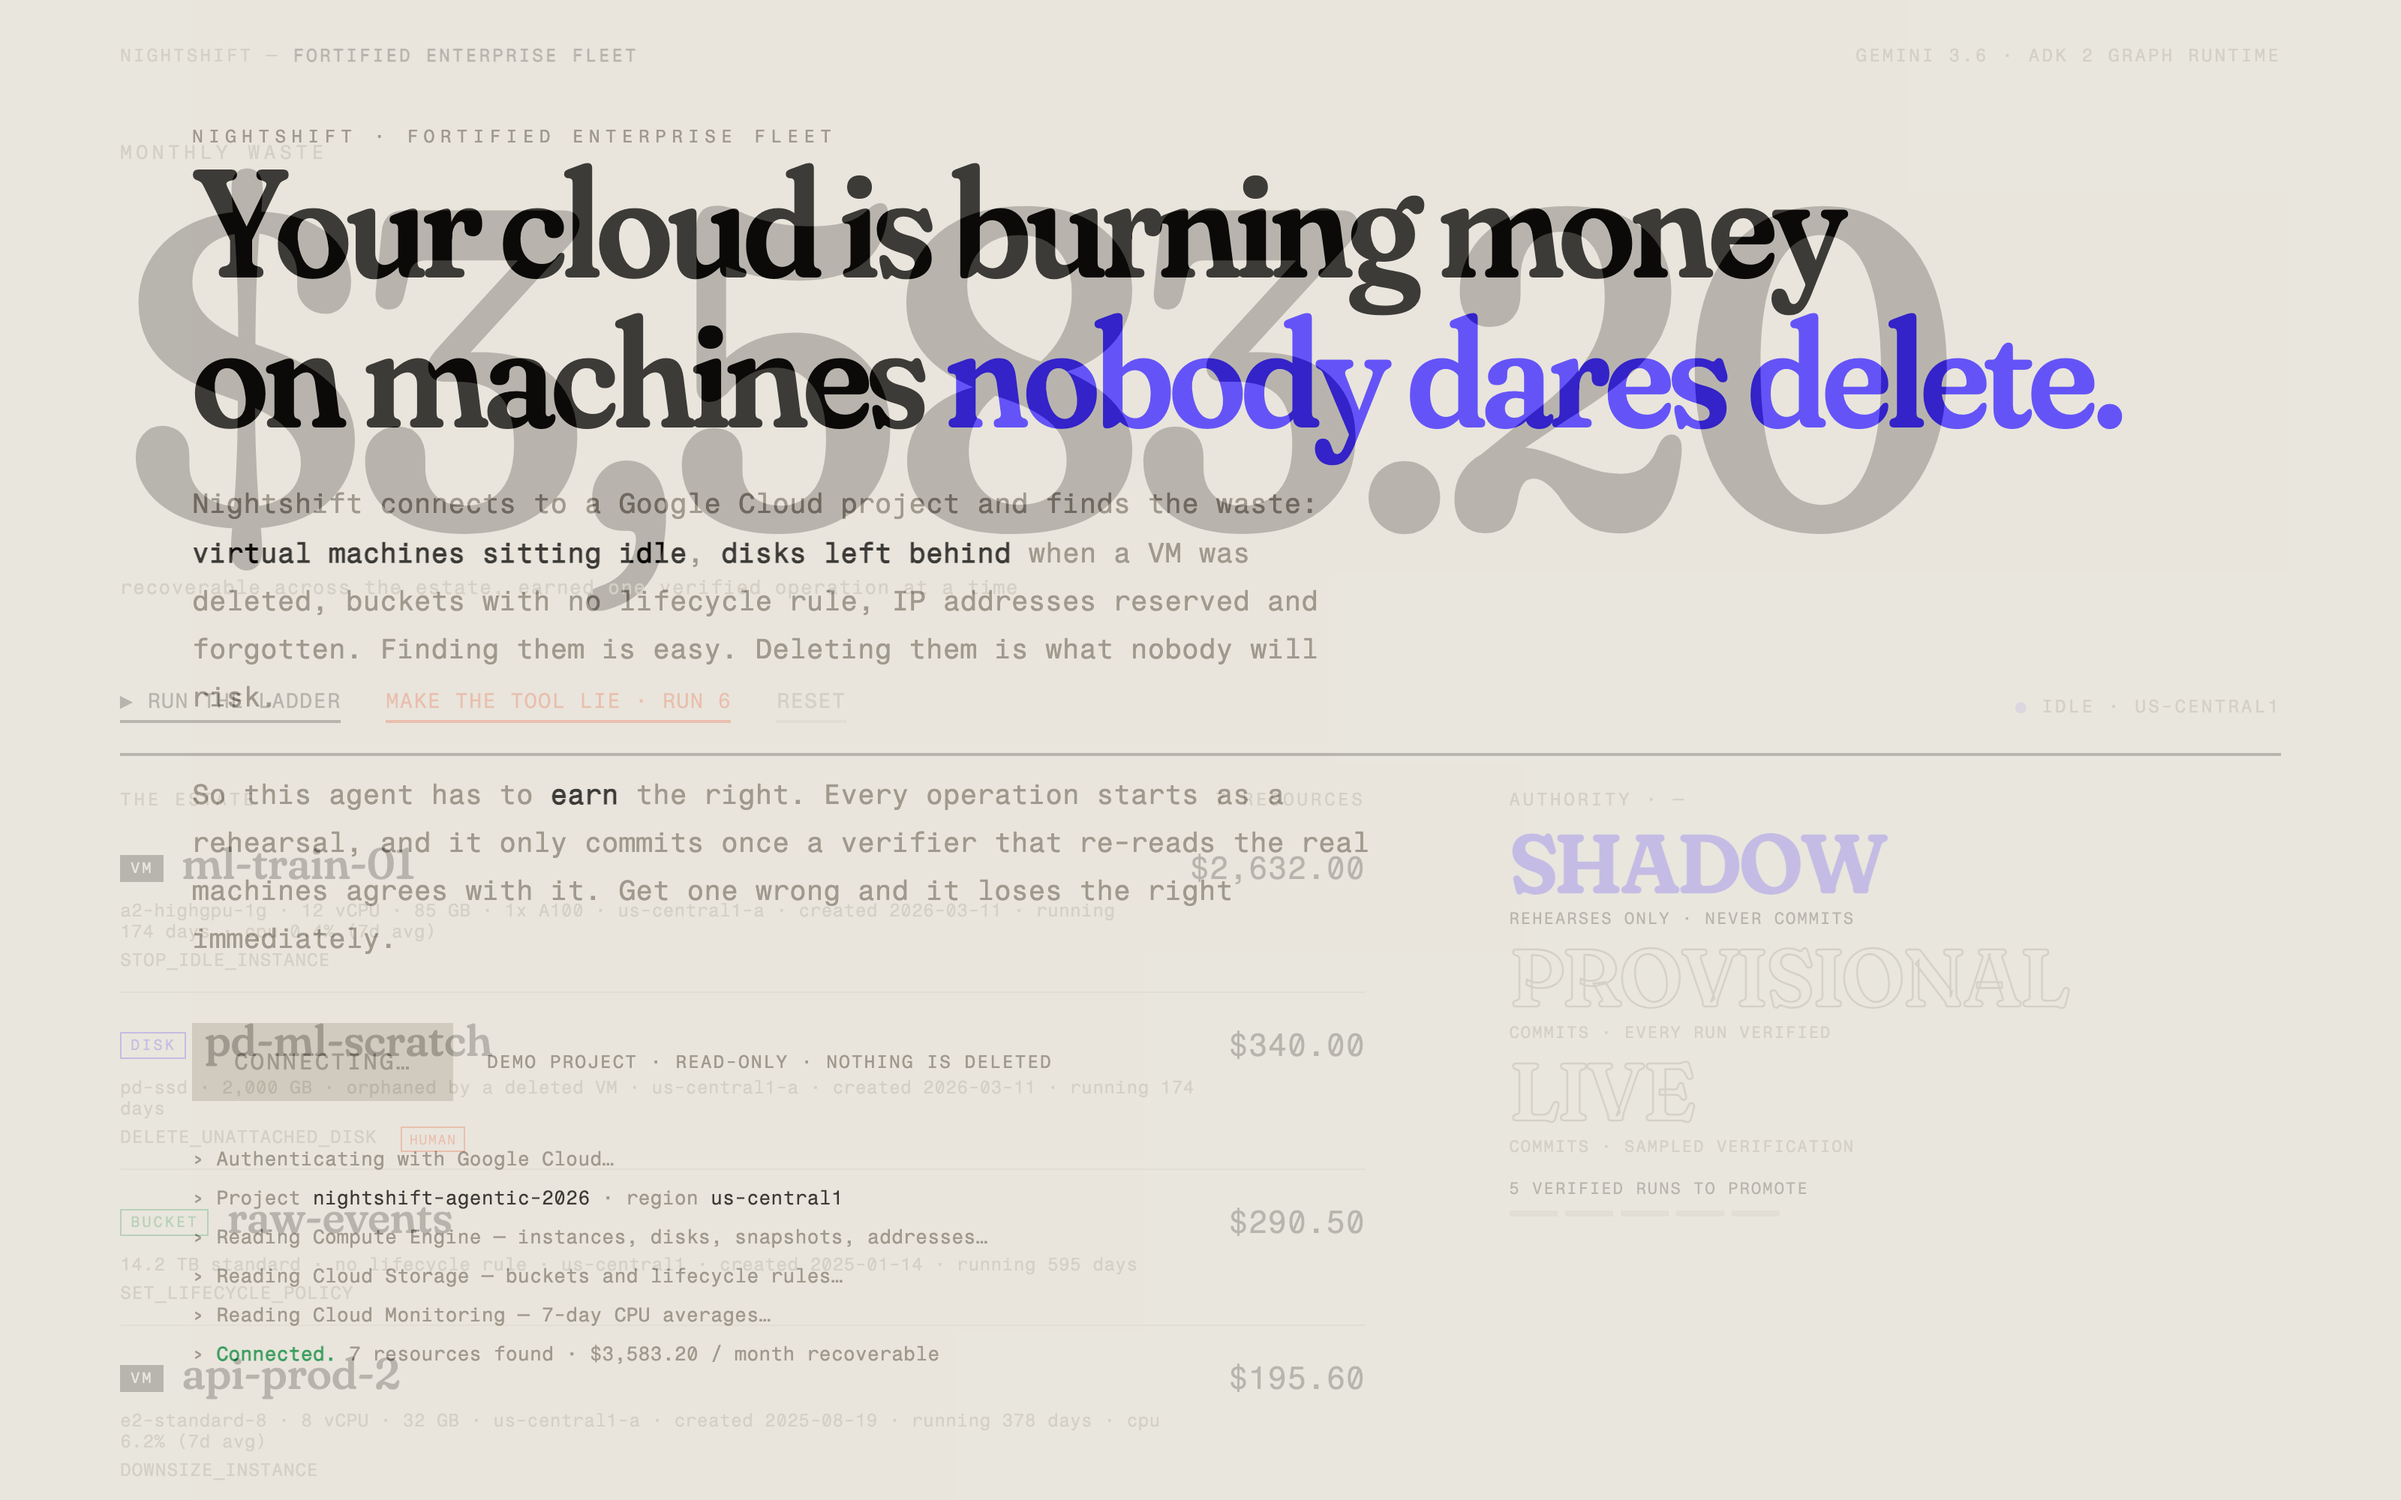
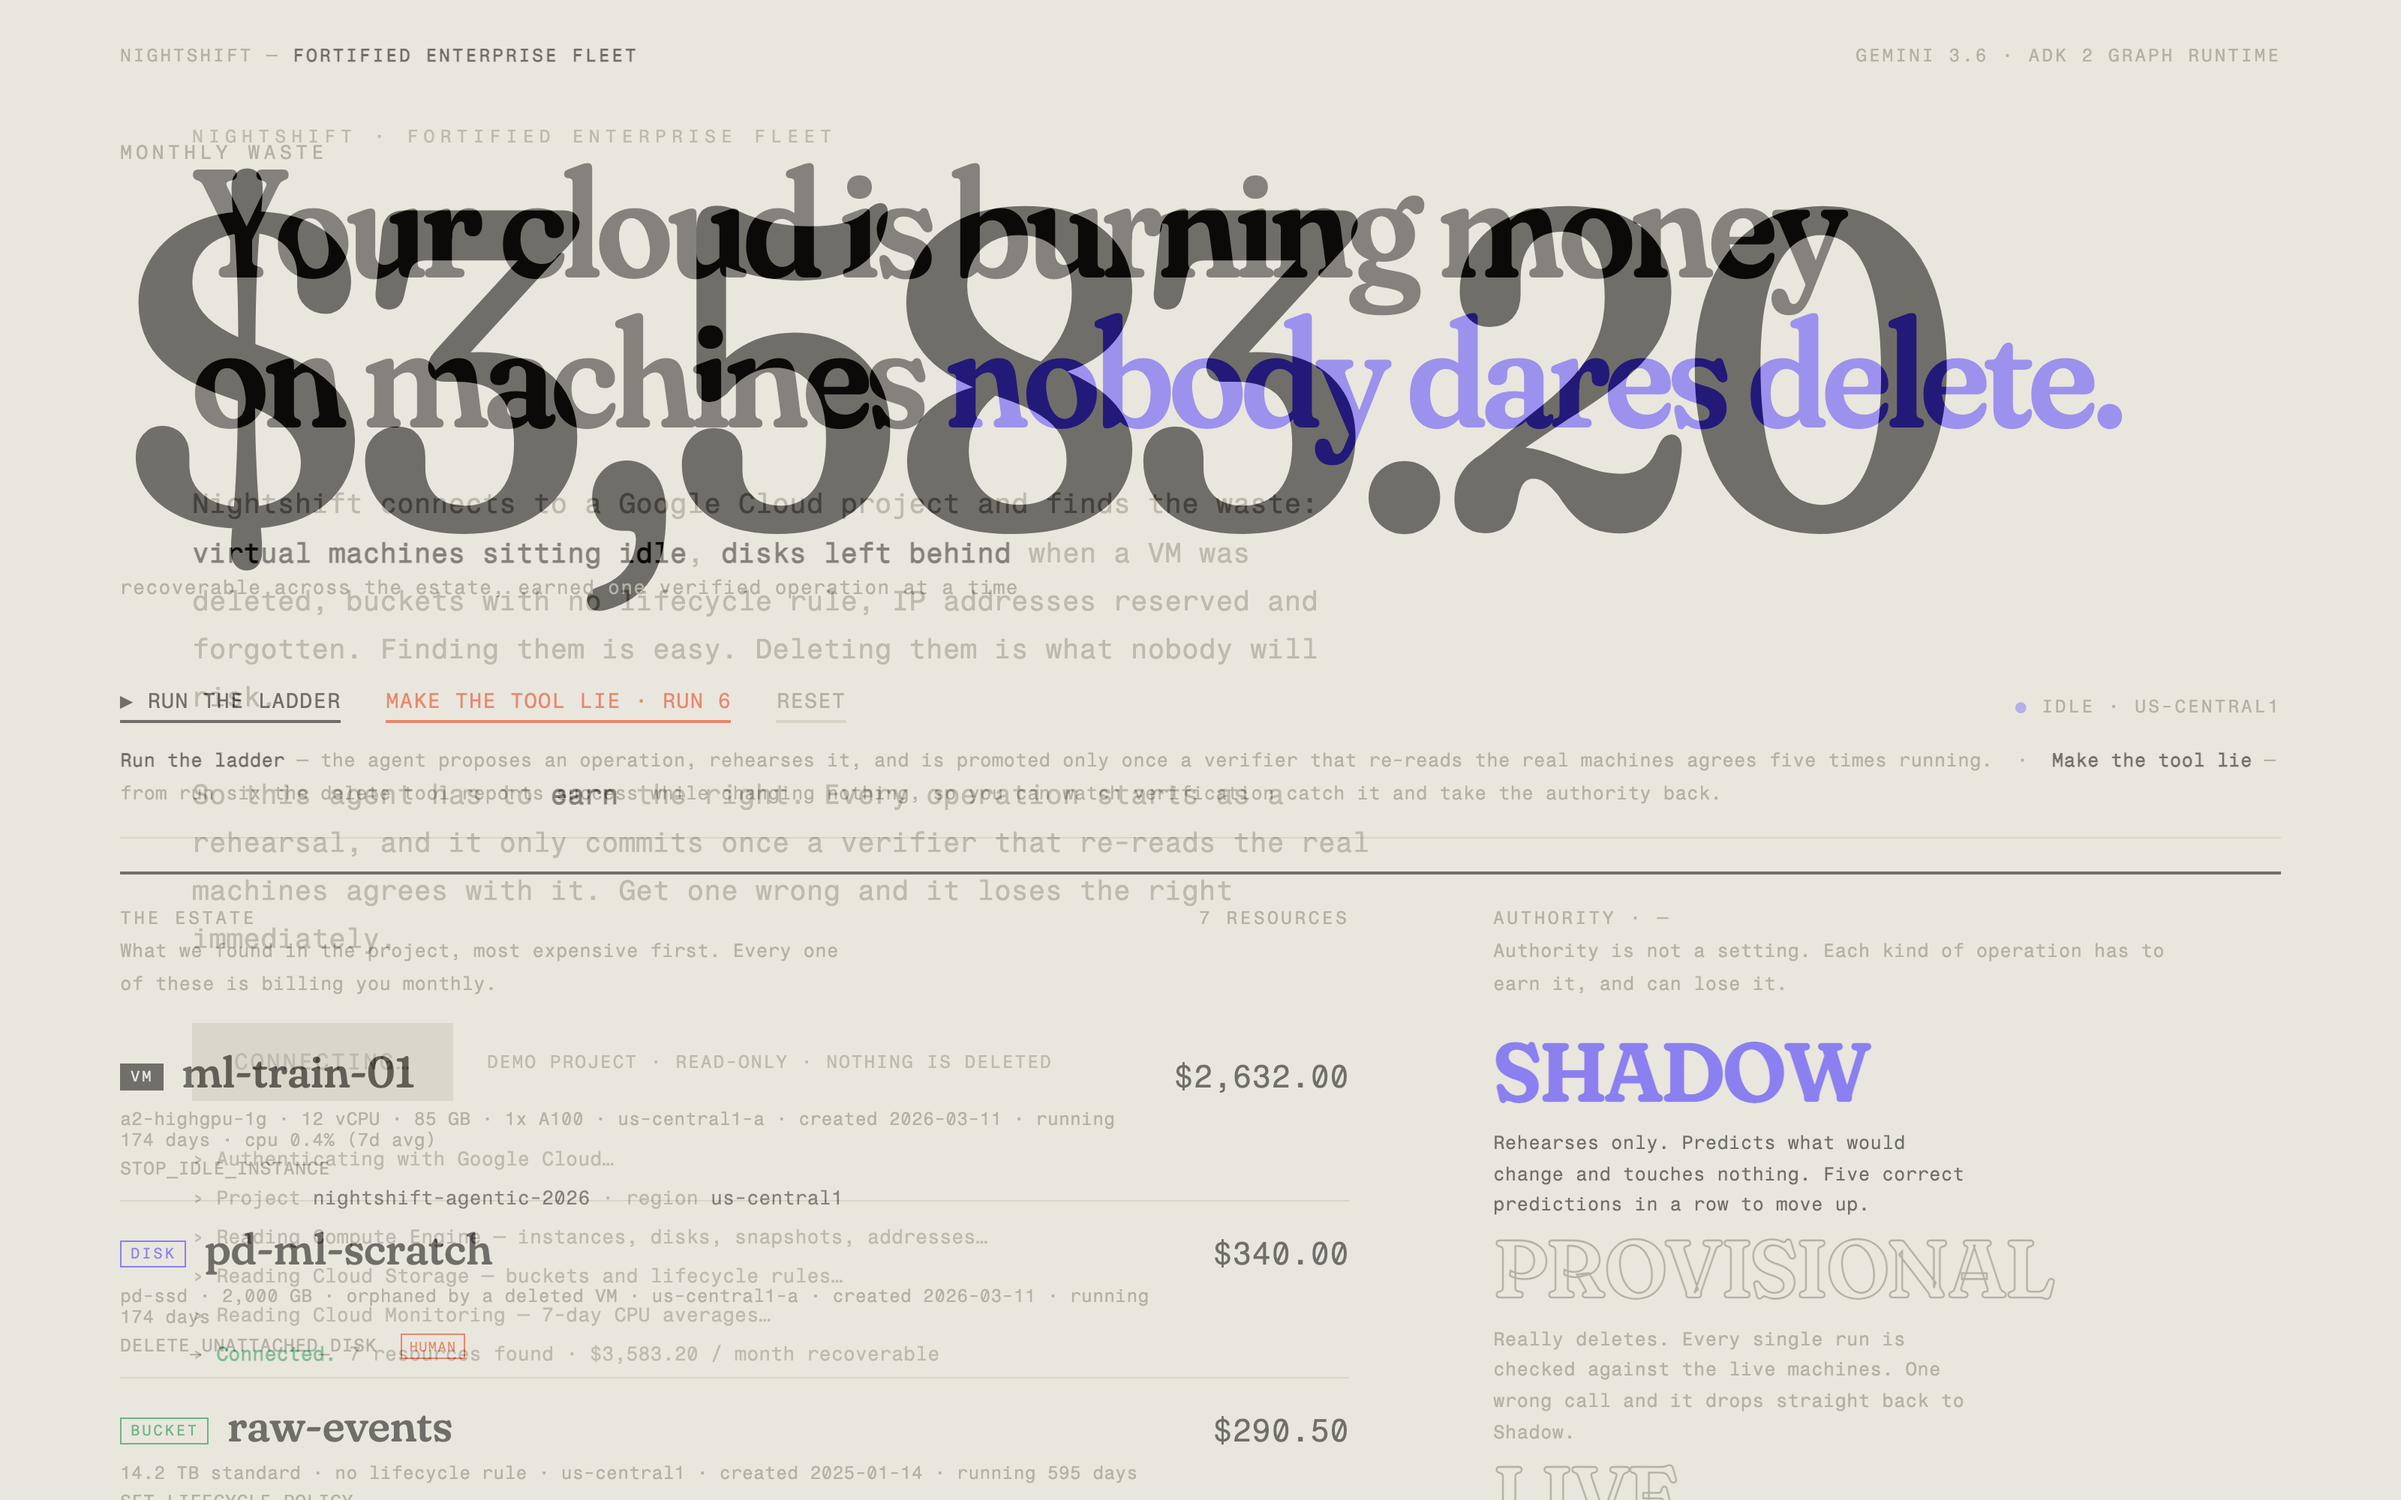
Console: explain every element in plain language
The three authority words meant nothing to a first-time reader. Each rung now says what it
actually does: Shadow rehearses and touches nothing, five correct predictions to move up;
Provisional really deletes with every run checked, one wrong call drops it back; Live really
deletes with sampled checks, never zero, because a rung nobody watches cannot fall. Same for the
estate ('every one of these is billing you monthly'), the authority column, the run log, and the
two buttons, which now say what clicking them will do.

Fixed the rung text inheriting the ladder's uppercase and nowrap, which had been clipping the
descriptions mid-sentence at the column edge.

diff --git a/src/app/board.html b/src/app/board.html
@@ -86,6 +86,11 @@
   .k-bucket{color:var(--good);border-color:var(--good)} .k-ip{color:var(--mut);border-color:var(--mut)}
   .k-snapshot{color:var(--red);border-color:var(--red)}
   .item .meta{display:block;font-family:var(--mono);font-size:12px;color:var(--mut);margin-top:7px;letter-spacing:.01em}
+  .explain{font-family:var(--mono);font-size:12.5px;line-height:1.75;color:var(--mut);
+    margin:0 0 16px;max-width:62ch;letter-spacing:.01em}
+  .explain b{color:var(--ink)}
+  .explain.wide{max-width:none;margin:-6px 0 22px;padding-bottom:18px;border-bottom:1px solid var(--hair)}
+  .rung .m{max-width:42ch;line-height:1.65;margin-top:6px;white-space:normal;text-transform:none;letter-spacing:.01em;font-size:12.5px}
 </style></head>
 <body>
 <div class="gate" id="gate">
@@ -122,17 +127,28 @@
     <span class="live"><span class="d">●</span> <span id="status">idle</span> · US-CENTRAL1</span>
   </div>
 
+  <div class="explain wide" id="ctlhelp"><b>Run the ladder</b> — the agent proposes an operation, rehearses it, and is promoted only once a
+    verifier that re-reads the real machines agrees five times running. &nbsp;·&nbsp; <b>Make the tool lie</b> — from run six the
+    delete tool reports success while changing nothing, so you can watch verification catch it and take the authority back.</div>
   <div class="split">
     <div>
       <div class="col-h"><span>The estate</span><span id="estate-count"></span></div>
+      <div class="explain">What we found in the project, most expensive first. Every one of these is billing you monthly.</div>
       <div id="estate"></div>
     </div>
     <div>
       <div class="col-h"><span>Authority · <span id="op-label">—</span></span></div>
+      <div class="explain">Authority is not a setting. Each kind of operation has to earn it, and can lose it.</div>
       <div class="ladder" id="rungs">
-        <div class="rung" data-key="shadow" data-on="true">Shadow<span class="m">rehearses only · never commits</span></div>
-        <div class="rung" data-key="provisional">Provisional<span class="m">commits · every run verified</span></div>
-        <div class="rung" data-key="live">Live<span class="m">commits · sampled verification</span></div>
+        <div class="rung" data-key="shadow" data-on="true">Shadow
+          <span class="m">Rehearses only. Predicts what would change and touches nothing.
+          Five correct predictions in a row to move up.</span></div>
+        <div class="rung" data-key="provisional">Provisional
+          <span class="m">Really deletes. Every single run is checked against the live machines.
+          One wrong call and it drops straight back to Shadow.</span></div>
+        <div class="rung" data-key="live">Live
+          <span class="m">Really deletes. Checked on a sample, never zero, because a rung
+          nobody watches cannot fall.</span></div>
       </div>
       <div class="streak"><span id="rung-note">5 verified runs to promote</span></div>
       <div class="pips" id="pips"></div>
@@ -140,7 +156,7 @@
   </div>
 
   <div class="logwrap">
-    <div class="col-h"><span>Run log</span><span>verification re-derives state — it never asks the agent how it went</span></div>
+    <div class="col-h"><span>Run log</span><span>each line is one operation: the rung it ran at, whether it acted, and why</span></div>
     <div id="log"><div class="empty">Nothing has run yet.</div></div>
   </div>
 
